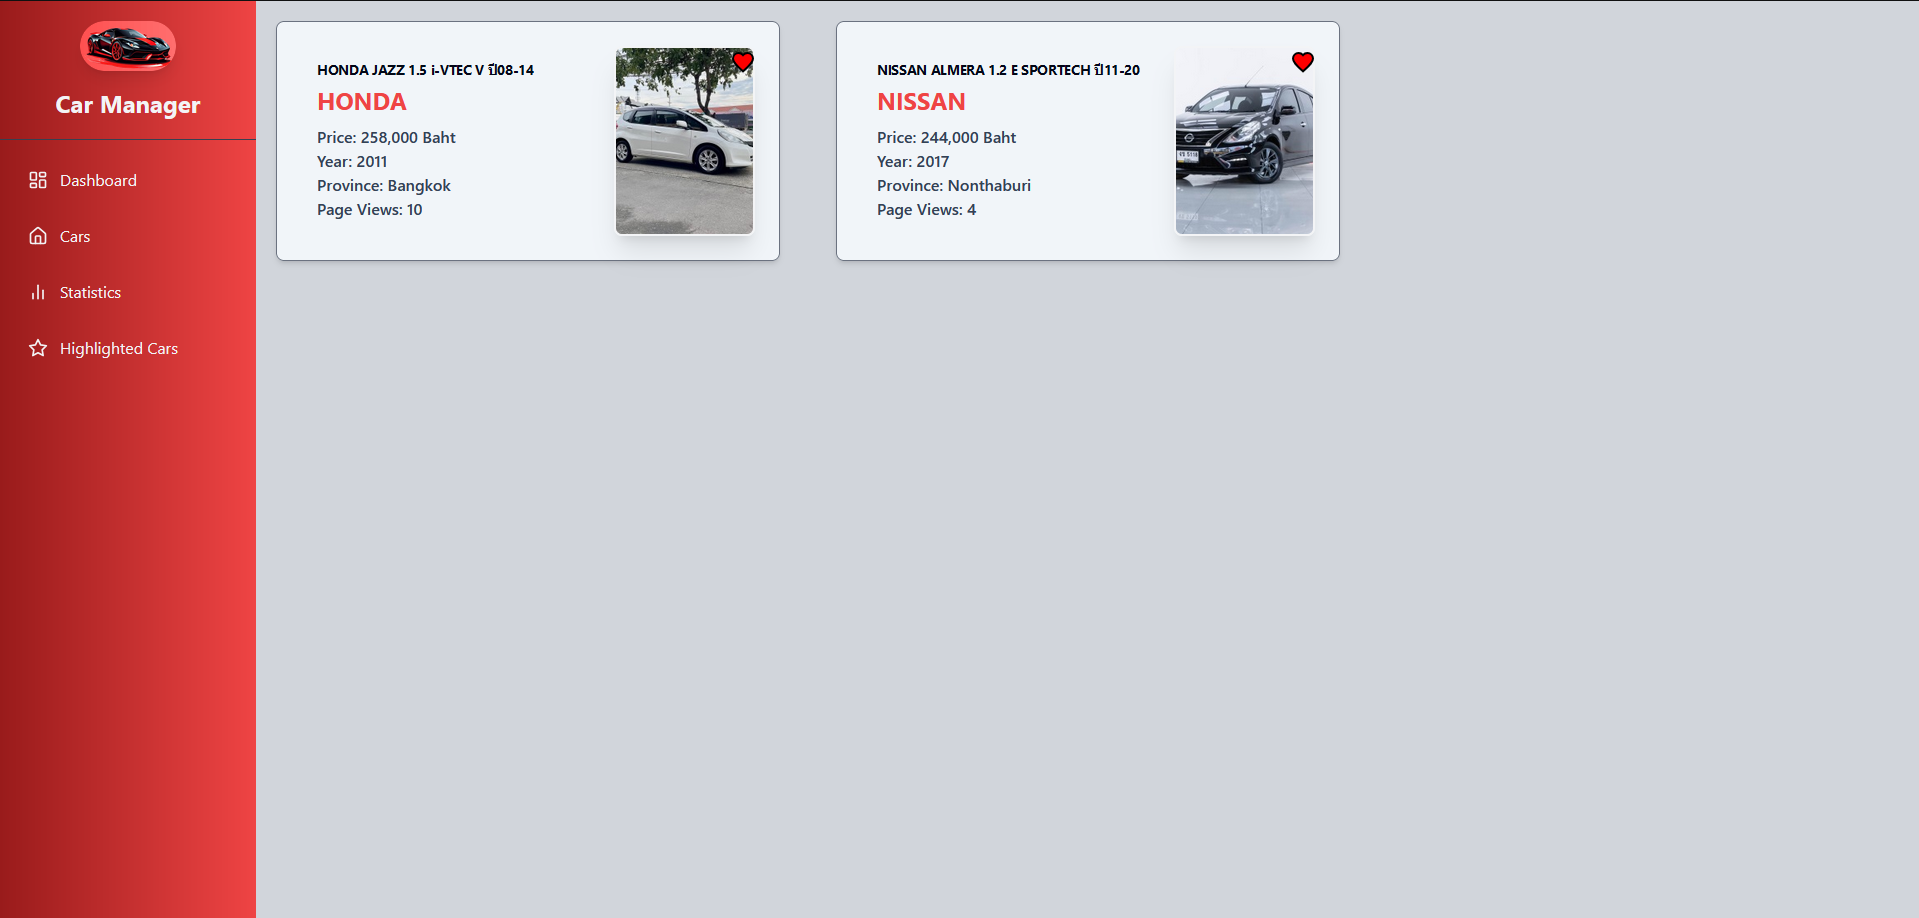
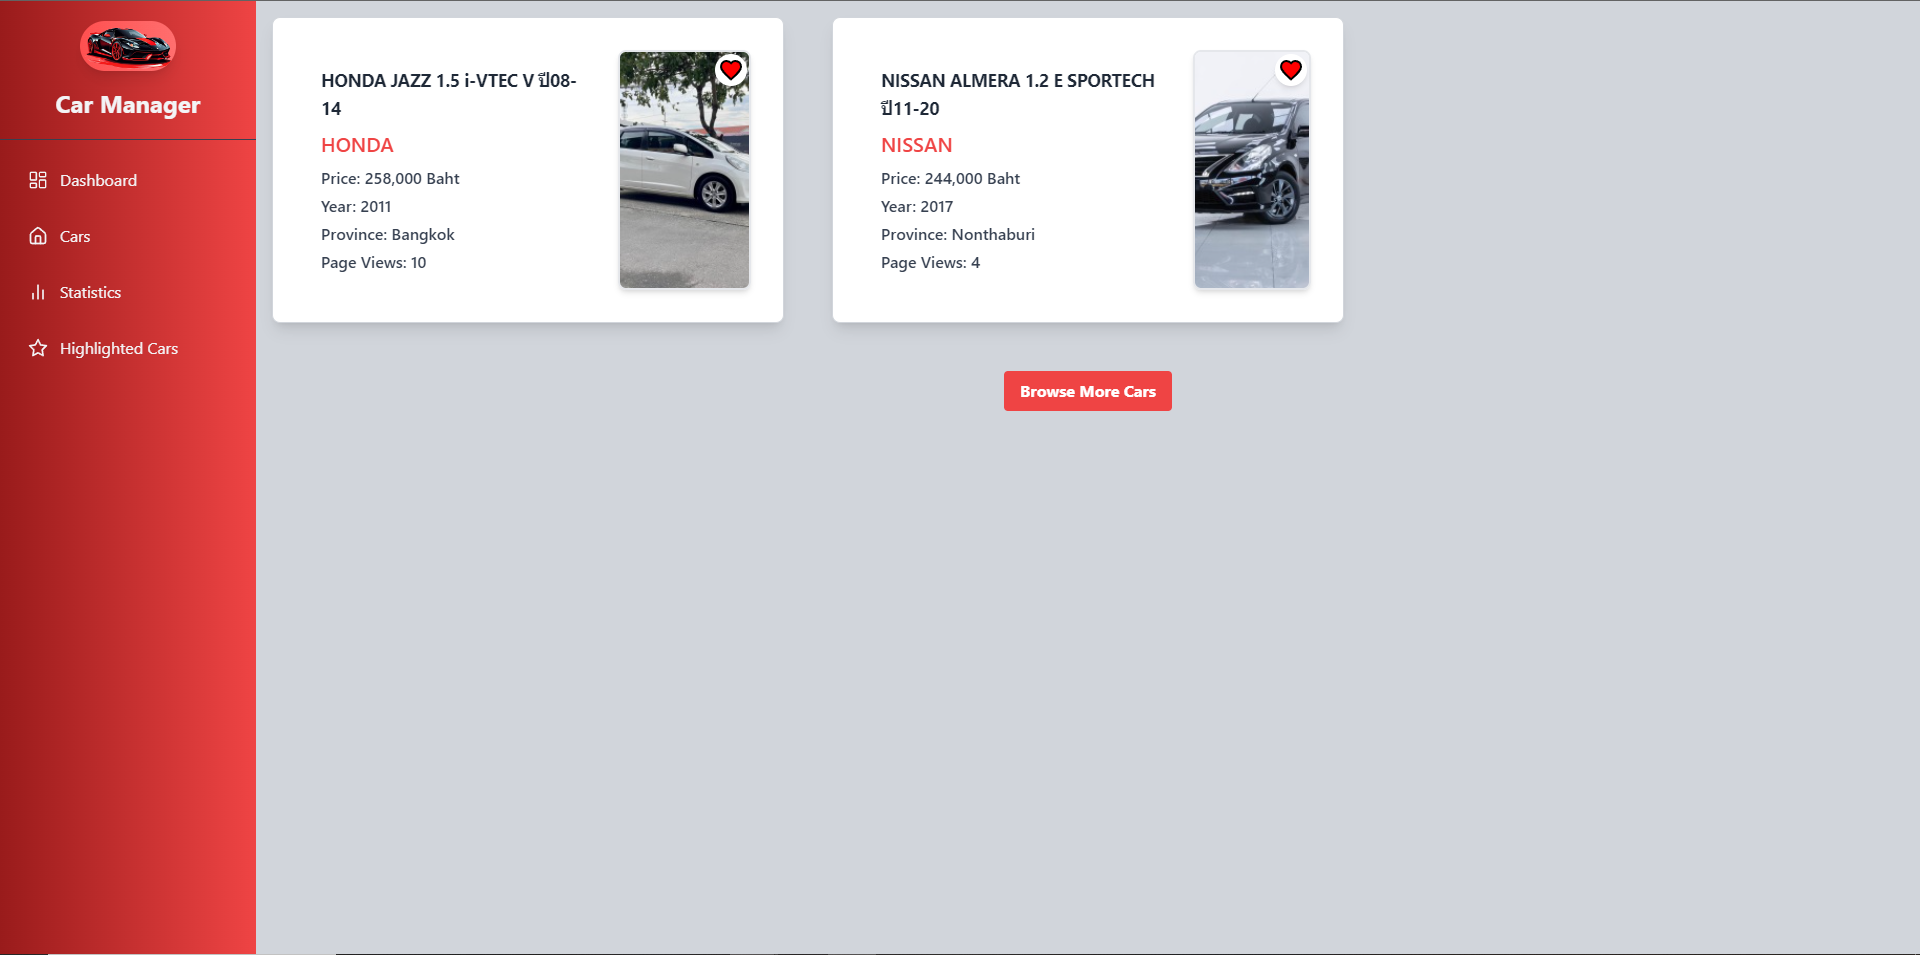
screen shots

diff --git a/src/components/HighlighedCars.jsx b/src/components/HighlighedCars.jsx
@@ -22,6 +22,9 @@ const HighlightedCars = () => {
 
   return (
     <div>
+      <h1 className="text-3xl font-bold text-red-500 mb-4 text-center">
+        Highlighted Cars
+      </h1>
       {favouriteCars.length === 0 ? (
         <div className="text-2xl text-center font-bold rounded-lg text-red-500 mt-8">
           You have no cars saved!
